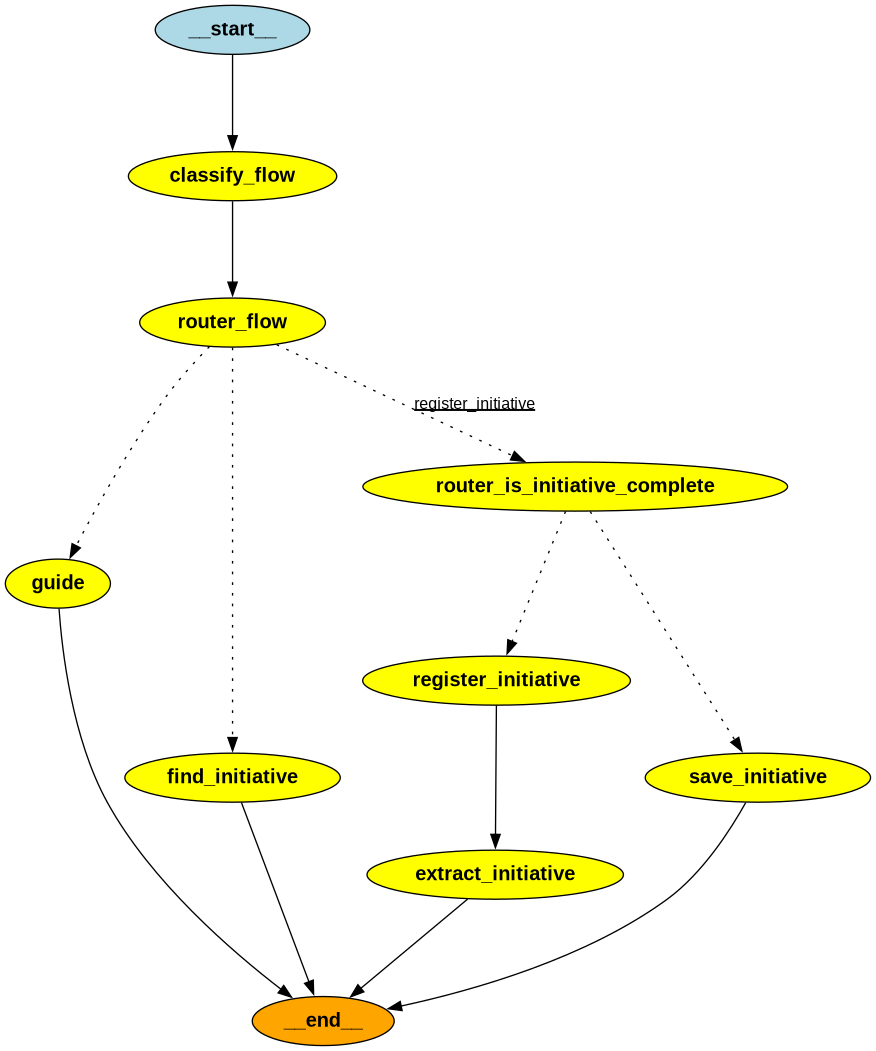
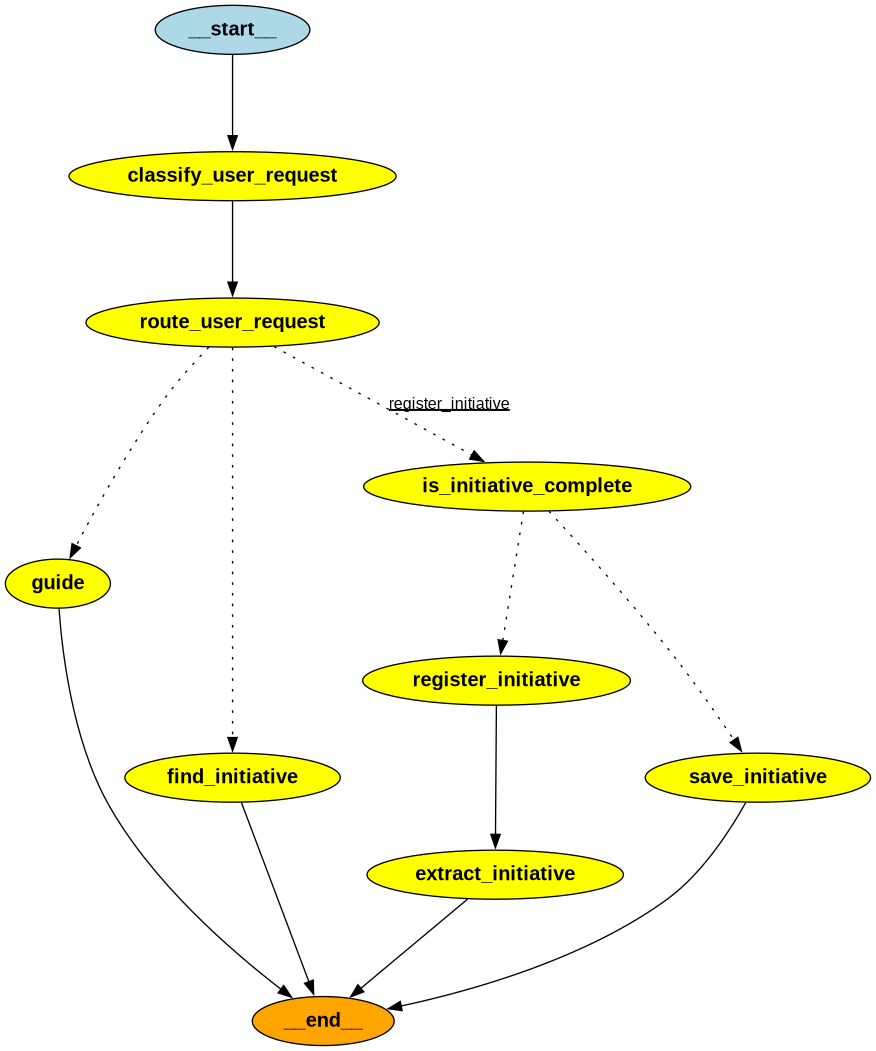
chore: rename files && improve readability

diff --git a/agent/src/nodes.py b/agent/src/nodes.py
@@ -27,7 +27,7 @@ def log_node(func):
 
 
 @log_node
-def classify_flow(state: State):
+def classify_user_request(state: State):
     last_msg = state["messages"][-1]
     classifier_llm = default_llm.with_structured_output(FlowClassifier)
     flow_type = state.get("flow_type", None)
@@ -37,7 +37,9 @@ def classify_flow(state: State):
         return {"flow_type": flow_type}
 
     try:
-        with open(f"{PROMPTS_DIR}/classify_flow.md", "r", encoding="utf-8") as f:
+        with open(
+            f"{PROMPTS_DIR}/classify_user_request.md", "r", encoding="utf-8"
+        ) as f:
             prompt_content = f.read()
 
         result = classifier_llm.invoke(
@@ -61,7 +63,7 @@ def classify_flow(state: State):
 
 
 @log_node
-def router_flow(state: State):
+def route_user_request(state: State):
     flow_type = state.get("flow_type", "direcionar")
 
     if flow_type == "registrar":
@@ -73,7 +75,7 @@ def router_flow(state: State):
 
 
 @log_node
-def node_guide(state: State):
+def guide(state: State):
     with open(f"{PROMPTS_DIR}/guide.md", "r", encoding="utf-8") as f:
         prompt_content = f.read()
 
@@ -92,7 +94,7 @@ def node_guide(state: State):
 
 
 @log_node
-def node_register_initiative(state: State):
+def register_initiative(state: State):
     new_initiative = state.get("initiative") or {}
 
     with open(f"{PROMPTS_DIR}/register_initiative.md", "r", encoding="utf-8") as f:
@@ -119,7 +121,7 @@ def node_register_initiative(state: State):
 
 
 @log_node
-def router_is_initiative_complete(state: State):
+def is_initiative_complete(state: State):
     new_initiative = state.get("initiative") or {}
 
     if new_initiative and all(
@@ -137,7 +139,7 @@ def router_is_initiative_complete(state: State):
 
 
 @log_node
-def node_extract_initiative(state: State):
+def extract_initiative(state: State):
     new_initiative = state.get("initiative") or Initiative(
         title=None, theme=None, context=None, deliverable=None, avaliation_criteria=None
     )
@@ -189,7 +191,7 @@ def node_extract_initiative(state: State):
 
 
 @log_node
-def node_save_initiative(state: State):
+def save_initiative(state: State):
     msgs = [
         "Ótimo, aguarde um momento, estou registrando sua iniciativa!",
         "Iniciativa registrada com sucesso! Você pode revisar e complementar as informações em www.inithub.com/initiatives/12345.",
@@ -203,7 +205,7 @@ def node_save_initiative(state: State):
 
 
 @log_node
-def node_find_initiative(state: State):
+def find_initiative(state: State):
     result = {
         "messages": [
             AIMessage(

diff --git a/agent/src/chain.py b/agent/src/chain.py
@@ -1,13 +1,4 @@
-from src.nodes import (
-    classify_flow,
-    node_extract_initiative,
-    router_flow,
-    node_guide,
-    node_find_initiative,
-    node_register_initiative,
-    router_is_initiative_complete,
-    node_save_initiative,
-)
+from src import nodes
 from src.schemas import State
 
 from langgraph.graph import StateGraph, START, END
@@ -15,28 +6,28 @@ from langgraph.graph import StateGraph, START, END
 
 workflow = StateGraph(State)
 
-workflow.add_node("classify_flow", classify_flow)
-workflow.add_node("router_flow", router_flow)
-workflow.add_node("guide", node_guide)
-workflow.add_node("find_initiative", node_find_initiative)
-workflow.add_node("register_initiative", node_register_initiative)
-workflow.add_node("extract_initiative", node_extract_initiative)
-workflow.add_node("save_initiative", node_save_initiative)
-workflow.add_node("router_is_initiative_complete", router_is_initiative_complete)
+workflow.add_node("classify_user_request", nodes.classify_user_request)
+workflow.add_node("route_user_request", nodes.route_user_request)
+workflow.add_node("guide", nodes.guide)
+workflow.add_node("find_initiative", nodes.find_initiative)
+workflow.add_node("register_initiative", nodes.register_initiative)
+workflow.add_node("extract_initiative", nodes.extract_initiative)
+workflow.add_node("save_initiative", nodes.save_initiative)
+workflow.add_node("is_initiative_complete", nodes.is_initiative_complete)
 
-workflow.add_edge(START, "classify_flow")
-workflow.add_edge("classify_flow", "router_flow")
+workflow.add_edge(START, "classify_user_request")
+workflow.add_edge("classify_user_request", "route_user_request")
 workflow.add_conditional_edges(
-    "router_flow",
+    "route_user_request",
     lambda state: state.get("next"),
     {
         "guide": "guide",
         "find_initiative": "find_initiative",
-        "register_initiative": "router_is_initiative_complete",
+        "register_initiative": "is_initiative_complete",
     },
 )
 workflow.add_conditional_edges(
-    "router_is_initiative_complete",
+    "is_initiative_complete",
     lambda state: state.get("next"),
     {
         "register_initiative": "register_initiative",
